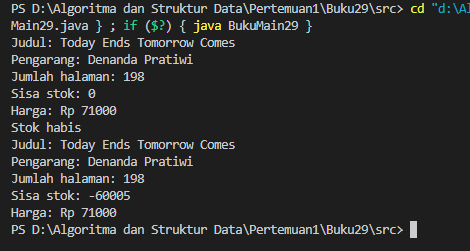
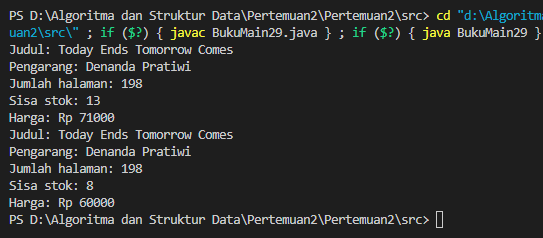
Fix: Readme untuk pertanyaan percobaan 2

Changed region(s): [[0.0, 0.0, 1.0, 0.9706]]

diff --git a/Pertemuan2/Pertemuan2/src/Buku29.java b/Pertemuan2/Pertemuan2/src/Buku29.java
@@ -13,21 +13,17 @@ public class Buku29 {
     void terjual(int jml) {
         if (stok > 0) {
             stok -= jml;
-            if (stok < 0) {
-                stok = 0;
-            }
         } else {
             System.out.println("Stok habis");
         }
-        stok -= jml;
     }
 
     void restock(int jml) {
-        stok -= jml;
+        stok += jml;
     }
 
-    void gantiHarga(int jml) {
-        stok -= jml;
+    void gantiHarga(int hrg) {
+        harga = hrg;
     }
 
 }

diff --git a/Pertemuan2/README.md b/Pertemuan2/README.md
@@ -1,4 +1,4 @@
-:center: # Algoritma dan Struktur Data :center:
+# Algoritma dan Struktur Data
 
 <img src="https://static.wikia.nocookie.net/logopedia/images/8/8a/Politeknik_Negeri_Malang.png/revision/latest?cb=20190922202558" alt="Gambar" style="height: 200px">
 
@@ -49,7 +49,7 @@ sehingga proses pengurangan hanya dapat dilakukan jika stok masih ada (lebih bes
 
 <p>Metode restock(int jml) memiliki satu parameter berupa bilangan integer karena metode ini bertujuan untuk menambah jumlah stok buku yang ada. Parameter jml ini mewakili jumlah buku yang akan ditambahkan ke stok. </p>
 
-### Percobaan 1
+### Percobaan 2
 
 <p>Kode program</p>
 <img src="gambar/Kode Percobaan 2.png">
@@ -58,4 +58,15 @@ sehingga proses pengurangan hanya dapat dilakukan jika stok masih ada (lebih bes
 
 #### Pertanyaan
 
-<strong><p></p></strong>
+<strong><p>Pada class BukuMain, tunjukkan baris kode program yang digunakan untuk proses instansiasi!
+Apa nama object yang dihasilkan?</p></strong>
+
+<p>bk1</p>
+
+<strong><p>Bagaimana cara mengakses atribut dan method dari suatu objek?</p></strong>
+
+<p>Dengan menambahkan titik di belakang nama object, lalu pilih atribut atau method yang akan diakses</p>
+
+<strong><p>Mengapa hasil output pemanggilan method tampilInformasi() pertama dan kedua berbeda?</p></strong>
+
+<p>Karena di output pertama menampilkan sisa stok terakhir sebelum dikurangi oleh pemanggilan method terjual sejumlah 5 buah sehingga di output kedua menampilkan sisa dari stok yaitu 13 - 5 = 8. Selain itu di output pertama atribut harga di set dengan jumlah 71000, lalu diakibatkan pemanggilan method gantiHarga dengan parameter di set ke 60000, harga yang ditampilkan menjadi 60000  </p>
